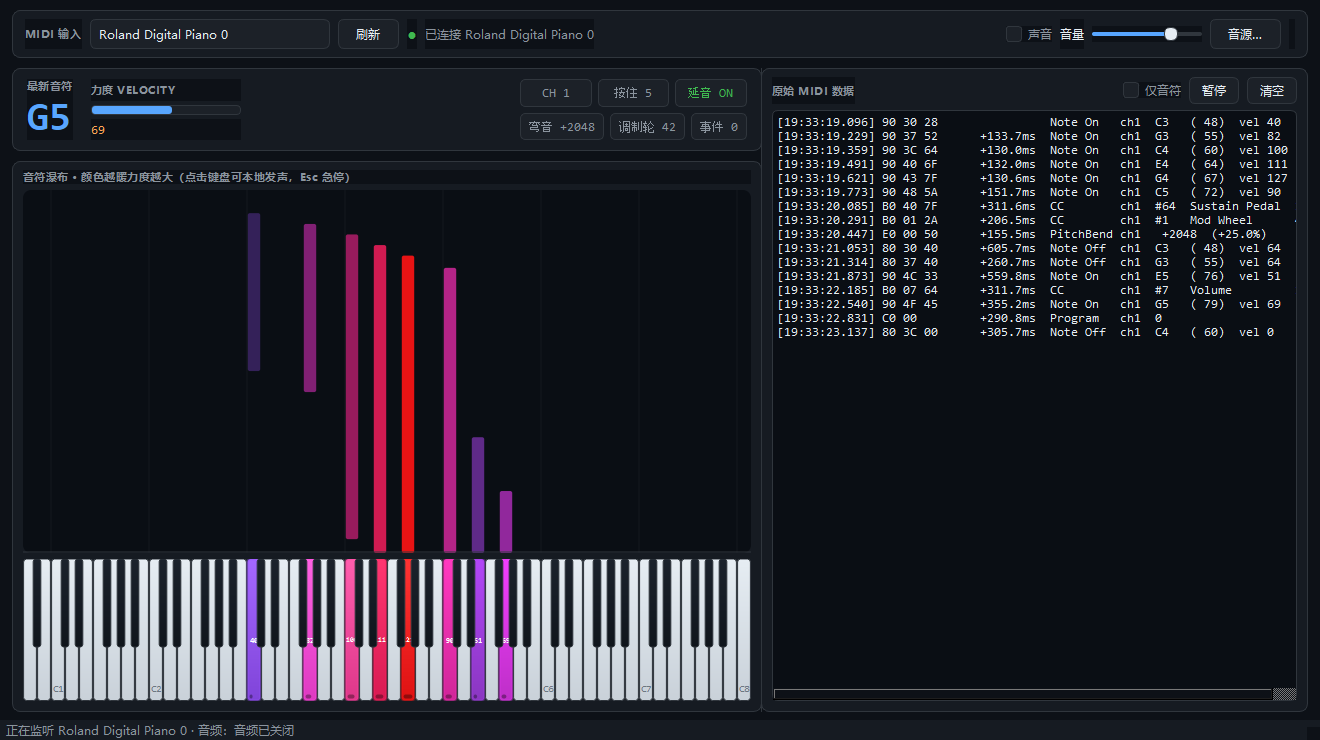
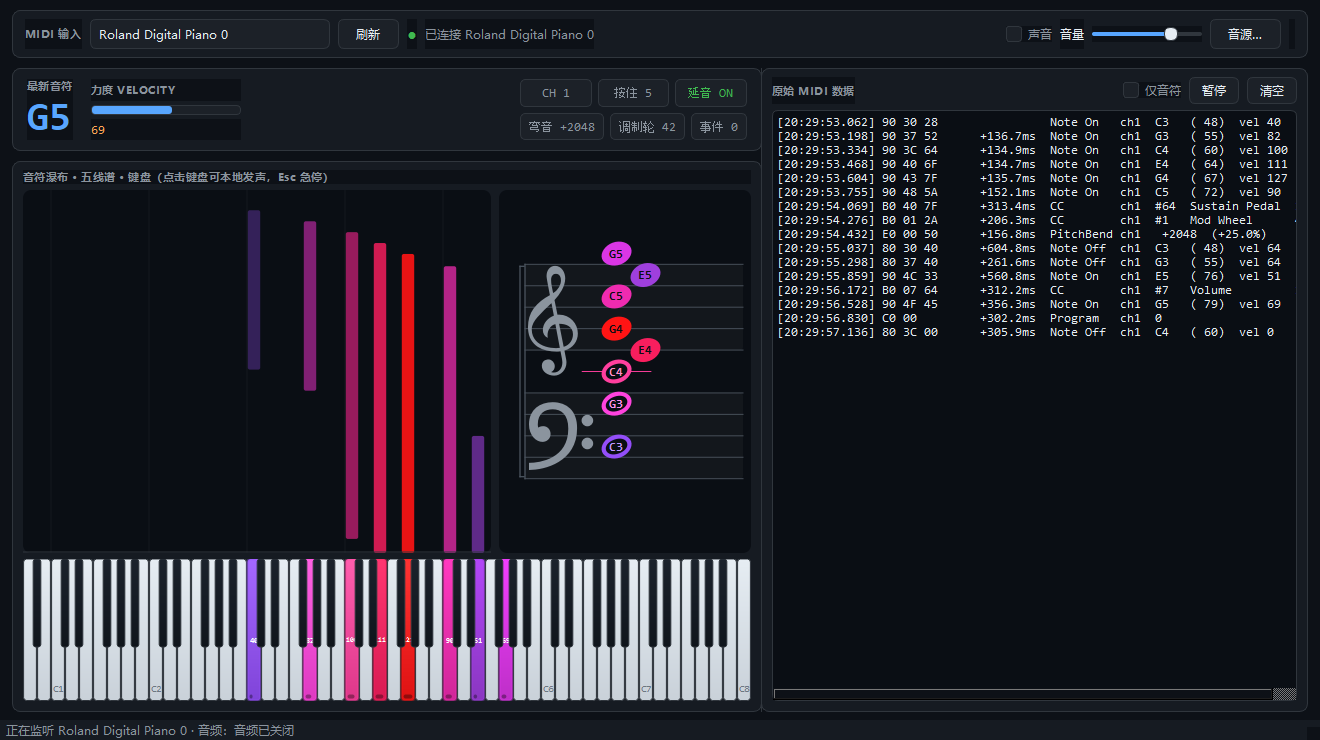
docs: 补充五线谱说明与更新预览图
- 新增「五线谱怎么读」：谱表结构、加线、实心/空心、临时升号、视窗扩展
- 目录结构加入 staff_widget.py，FAQ 增加音乐字体缺失的降级说明

diff --git a/README.md b/README.md
@@ -13,13 +13,23 @@
 | 原始数据 | 每条消息显示原始字节（如 `90 3C 60`）、与上一条的间隔（ms）、解析后的语义 |
 | 键盘可视化 | 88 键（A0–C8），按下的键高亮，颜色由冷到暖表示力度，键底还有一条力度条 |
 | 音符瀑布 | 每个音从对应琴键位置向上「升起」，条长 = 按住时长，颜色 = 力度，一眼看出旋律走向 |
+| 五线谱 | 大谱表（高音谱 + 低音谱），实时标出按下的音在谱上的确切位置，升号用临时记号，音名直接写在音头里 |
 | 力度 / 控制器 | 力度条、按键计数、通道、延音踏板（CC64）、弯音、调制轮（CC1）实时显示 |
 | 声音 | 内置软音源（numpy 加法合成，装完就能出声），可选加载 `.sf2` SoundFont |
 | 鼠标弹奏 | 直接点界面上的键盘也能发声，越靠下力度越大，方便没接键盘时试听 |
 | 终端模式 | `--cli` 不开界面，直接在终端打印 MIDI 数据，方便调试 |
 
-界面分三块：顶栏选设备 / 开关声音 / 调音量 / 换音源；左边是实时信息条 + 音符瀑布 + 88 键键盘；
+界面分三块：顶栏选设备 / 开关声音 / 调音量 / 换音源；左边是实时信息条 + 音符瀑布 + 五线谱 + 88 键键盘；
 右边是原始 MIDI 数据流（时间戳 · 原始字节 · 间隔 · 解析语义）。
+
+### 五线谱怎么读
+
+* 上方是高音谱（G 谱号）、下方是低音谱（F 谱号）；**中央 C** 落在两者之间，用自己的一条加线表示。
+* 超出谱表的音会自动补加线（ledger line），所以 A0、C8 这种极端音也能正确定位。
+* 音头是**实心**＝此刻正按着；**空心**＝已松手但被延音踏板（CC64）吊着。
+* 颜色沿用键盘的力度色阶；音名（如 `C4`）直接写在音头里，和弦再密也不会找不到。
+* 不设调号，所有黑键都用临时 `♯` 表示；同一时刻按下的音按和弦处理，音高太近时自动左右错开。
+* 视窗默认框在 C2–C6，弹到范围外会自动撑大并缩小行距，不会把音裁掉。
 
 ## 快速开始
 
@@ -56,6 +66,7 @@ midi/
 │  ├─ ui/
 │  │  ├─ piano_widget.py          # 88 键键盘控件
 │  │  ├─ note_trail.py            # 音符瀑布图（与键盘共用键位坐标）
+│  │  ├─ staff_widget.py          # 五线谱（大谱表 / 谱号 / 加线 / 临时记号）
 │  │  ├─ main_window.py           # 主窗口
 │  │  └─ theme.py                 # 深色主题与样式表
 │  ├─ cli.py                      # 终端监视模式
@@ -137,7 +148,7 @@ events = midi.drain()        # -> list[MidiEvent]，队列空则为 []
 ```
 
 覆盖 MIDI 字节解析（含 `note_on + vel 0`、14bit 弯音、单数据字节的 program change）、音名/频率换算、
-合成器的发声与回收、延音踏板、复音数上限。
+五线谱音级定位（各谱表十条线是否精确对上、升号不改变音级）、合成器的发声与回收、延音踏板、复音数上限。
 
 ## 常见问题
 
@@ -154,3 +165,8 @@ events = midi.drain()        # -> list[MidiEvent]，队列空则为 []
 
 **日志滚太快**
 点「暂停」（或空格）先冻住画面，勾选「仅音符」过滤掉 CC/弯音这类高频消息。
+
+**五线谱只显示 G / F 两个字母，没有谱号**
+说明系统里没有能渲染音乐符号的字体。Windows 自带的 **Segoe UI Symbol** 就够用；
+程序会依次尝试 Bravura / Noto Music / Segoe UI Symbol，都找不到时降级成 G、F 字母示意
+（不影响音高定位，只影响谱号外观）。
